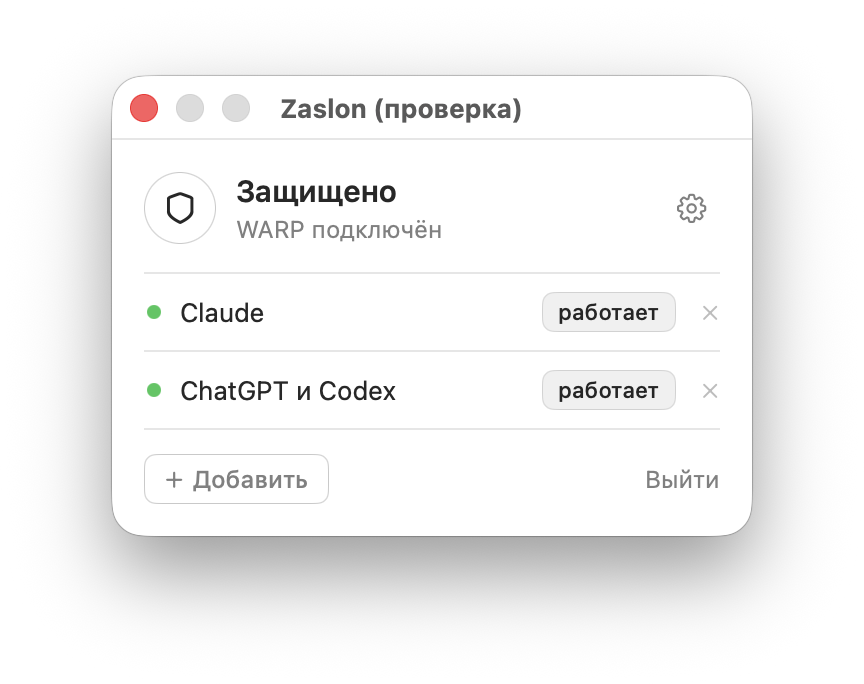
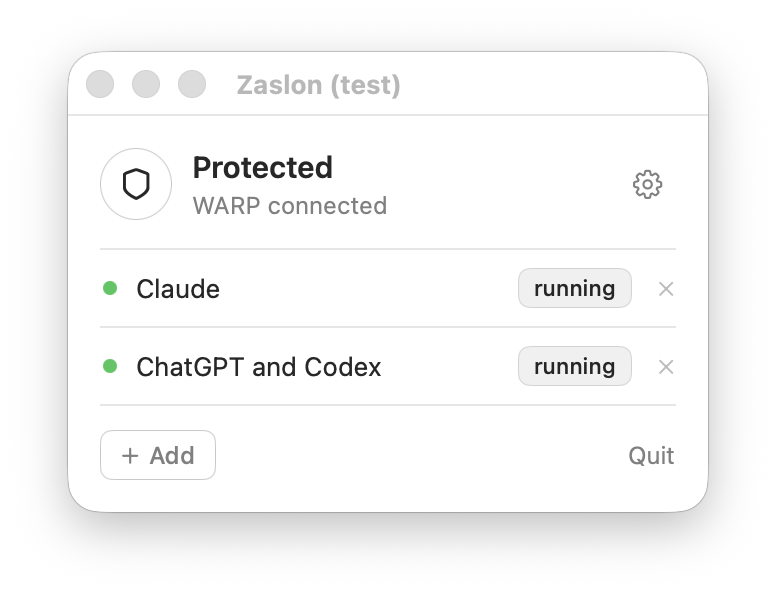
Add English and Russian, statuses from real connections, gear settings
- Language: English or Russian, chosen in the settings; starts from the system language.
- One status per app, read from its open connections: running, outside VPN, not working.
- The gate rule is written when ChatGPT or Claude is added and removed with the entry.
- Settings behind a gear; the switch is drawn by hand so it looks the same in both themes.
- README: English interface, every state pictured in the light and the dark theme.

Changed region(s): [[0.0928, 0.1208, 0.9278, 0.8758]]

diff --git a/Sources/Zaslon/App.swift b/Sources/Zaslon/App.swift
@@ -81,12 +81,15 @@ func relaunchSoon() {
     if bench { watchStalls() }
     let catalog = Catalog.shared
     catalog.refresh()
+    if let ui = ProcessInfo.processInfo.environment["UI"] { Lang.shared.code = ui } // UI=en|ru: the language of the test window, not saved
     let g = Guard(live: false)
     g.signal = { _, _ in }
     g.update(true)
-    let window = NSWindow(contentViewController: NSHostingController(rootView: Panel(g: g)))
+    let content = NSHostingController(rootView: Panel(g: g))
+    // For a picture the window must look the same on every run, so it never becomes the active one.
+    let window = ProcessInfo.processInfo.environment["SHOT"] != nil ? Still(contentViewController: content) : NSWindow(contentViewController: content)
     window.styleMask = [.titled, .closable]
-    window.title = "Zaslon (проверка)"
+    window.title = t("Zaslon (проверка)", "Zaslon (test)")
     window.setFrameTopLeftPoint(NSPoint(x: 60, y: (NSScreen.main?.visibleFrame.maxY ?? 800) - 60))
     window.orderFrontRegardless()
     func scrollView(in view: NSView) -> NSScrollView? { view as? NSScrollView ?? view.subviews.lazy.compactMap(scrollView).first }
@@ -116,7 +119,7 @@ func relaunchSoon() {
             after(2.6) { withAnimation(.snappy(duration: 0.3)) { g.enabled = true } }
         }
         Chip.showHover = env["HOVER"] != nil
-        Gate.shared.look()
+        Gate.shared.ruled = Set(Gate.services.map(\.app)) // the test window shows the normal state, not this Mac's facts of the moment
         if mode == "--picker" {
             catalog.picking = true
             after(1.5) { scroll(400) }
@@ -211,17 +214,17 @@ func watchStalls() {
 
 final class Delegate: NSObject, NSApplicationDelegate {
     func applicationDidFinishLaunching(_: Notification) {
-        Catalog.shared.keepAutostart() // also warms the app list and icons, so the first "Добавить" is instant
+        Catalog.shared.keepAutostart() // also warms the app list and icons, so the first "Add" is instant
         TunnelProxy.shared.start()
         Gate.shared.start()
         Gate.shared.watch()
         guard !UserDefaults.standard.bool(forKey: "askedLogin") else { return }
         UserDefaults.standard.set(true, forKey: "askedLogin")
         let a = NSAlert()
-        a.messageText = "Запускать Zaslon при входе в систему?"
-        a.informativeText = "Без автозапуска защита не работает, пока вы не откроете программу сами. Поменять можно в окне программы."
-        a.addButton(withTitle: "Запускать")
-        a.addButton(withTitle: "Не сейчас")
+        a.messageText = t("Запускать Zaslon при входе в систему?", "Start Zaslon at login?")
+        a.informativeText = t("Без автозапуска защита не работает, пока вы не откроете программу сами. Поменять можно в окне программы.", "Without autostart the protection does not work until you open the app yourself. You can change this in the app's window.")
+        a.addButton(withTitle: t("Запускать", "Start at login"))
+        a.addButton(withTitle: t("Не сейчас", "Not now"))
         NSApp.activate(ignoringOtherApps: true)
         if a.runModal() == .alertFirstButtonReturn { Catalog.shared.setLogin(true) }
     }
@@ -538,6 +541,41 @@ struct SoftTrack: NSViewRepresentable {
 
 let corner: CGFloat = 6 // one rounding for every button and row
 
+/// The system's small switch, drawn by hand. The system one turns grey whenever its window is not the active one,
+/// so it looked switched off in pictures and differed between themes.
+struct Switch: ToggleStyle {
+    func makeBody(configuration: Configuration) -> some View {
+        Capsule().fill(configuration.isOn ? Color.green : Color.primary.opacity(0.18))
+            .frame(width: 32, height: 18)
+            .overlay(alignment: configuration.isOn ? .trailing : .leading) {
+                Circle().fill(.white).shadow(color: .black.opacity(0.25), radius: 1, y: 0.5).padding(2)
+            }
+            .animation(.snappy(duration: 0.18), value: configuration.isOn)
+            .contentShape(Capsule())
+            .onTapGesture { configuration.isOn.toggle() }
+    }
+}
+
+/// A window that never becomes active: pictures of it come out the same whatever else is on screen.
+final class Still: NSWindow {
+    override var canBecomeKey: Bool { false }
+    override var canBecomeMain: Bool { false }
+}
+
+/// The interface language: Russian or English. Every string is written in place, as `t("русский", "English")`.
+final class Lang: ObservableObject {
+    static let shared = Lang()
+    /// Starts from the system language; a choice made in the settings is remembered.
+    @Published var code = UserDefaults.standard.string(forKey: "language") ?? (Locale.preferredLanguages.first?.hasPrefix("ru") == true ? "ru" : "en")
+
+    func choose(_ code: String) {
+        self.code = code
+        UserDefaults.standard.set(code, forKey: "language")
+    }
+}
+
+func t(_ ru: String, _ en: String) -> String { Lang.shared.code == "ru" ? ru : en }
+
 /// The shared look of a button or row: a rounded box that fills in under the mouse.
 struct Chip: ViewModifier {
     static var showHover = false // HOVER=1 in the test window, to take a picture of the hover look
@@ -624,11 +662,12 @@ struct ShieldButton: View {
 
 struct QuitButton: View {
     let action: () -> Void
+    @ObservedObject private var lang = Lang.shared
     @State private var hover = false
 
     var body: some View {
         Button(action: action) {
-            Text("Выйти").foregroundStyle(hover ? Color.red : .secondary).padding(.vertical, 5).contentShape(Rectangle())
+            Text(t("Выйти", "Quit")).foregroundStyle(hover ? Color.red : .secondary).padding(.vertical, 5).contentShape(Rectangle())
         }
         .buttonStyle(.plain).onHover { hover = $0 }
     }
@@ -655,6 +694,7 @@ struct Panel: View {
     @ObservedObject var g: Guard
     @ObservedObject var catalog: Catalog
     @ObservedObject var gate = Gate.shared
+    @ObservedObject var lang = Lang.shared // every string below is read again when the language changes
     @State private var settings = ProcessInfo.processInfo.environment["GEAR"] != nil // GEAR=1: open in the test window
     @FocusState private var searching: Bool
 
@@ -666,7 +706,7 @@ struct Panel: View {
     var body: some View {
         VStack(alignment: .leading, spacing: 0) {
             HStack(spacing: 10) {
-                ShieldButton(g: g).help(g.enabled ? "Выключить защиту" : "Включить защиту")
+                ShieldButton(g: g).help(g.enabled ? t("Выключить защиту", "Switch protection off") : t("Включить защиту", "Switch protection on"))
                 VStack(alignment: .leading, spacing: 2) {
                     Text(title).font(.system(size: 15, weight: .semibold)).contentTransition(.opacity)
                     HStack(spacing: 0) {
@@ -681,7 +721,7 @@ struct Panel: View {
                         .foregroundStyle(settings ? HierarchicalShapeStyle.primary : .secondary)
                         .frame(width: 28, height: 28).modifier(Chip())
                 }
-                .buttonStyle(.plain).help(settings ? "Скрыть настройки" : "Настройки")
+                .buttonStyle(.plain).help(settings ? t("Скрыть настройки", "Hide settings") : t("Настройки", "Settings"))
             }
             .padding(.bottom, 14)
             Divider()
@@ -699,20 +739,20 @@ struct Panel: View {
                         .frame(width: 7, height: 7).frame(width: 10)
                     Text(e.name).font(.system(size: 13))
                     Spacer()
-                    StatusPill(text: off ? "выключена" : unruled ? "не работает" : !up ? "не запущен" : g.freezing ? "на паузе" : past ? "мимо VPN" : "работает") {
+                    StatusPill(text: off ? t("выключена", "off") : unruled ? t("не работает", "not working") : !up ? t("не запущен", "not running") : g.freezing ? t("на паузе", "frozen") : past ? t("мимо VPN", "outside VPN") : t("работает", "running")) {
                         if let service, unruled, !off {
                             gate.setRules(true, app: service) // asks for the admin password
                         } else if let i = g.entries.firstIndex(where: { $0.id == e.id }) {
                             g.entries[i].off = !off
                         }
                     }
-                    .help(off ? "Включить защиту для этой программы" : unruled ? "Серверы этой программы ещё не закрыты воротами VPN. Нажмите и введите пароль администратора." : "Выключить защиту для этой программы")
+                    .help(off ? t("Включить защиту для этой программы", "Switch protection on for this app") : unruled ? t("Серверы этой программы ещё не закрыты воротами VPN. Нажмите и введите пароль администратора.", "This app's servers are not behind the VPN gate yet. Click and enter the admin password.") : t("Выключить защиту для этой программы", "Switch protection off for this app"))
                     RemoveButton {
                         let drop = { g.entries.removeAll { $0.id == e.id } }
                         // The gate's rule leaves with the entry; if the password is refused, both stay.
                         if let service, gate.ruled.contains(service) { gate.setRules(false, app: service) { if $0 { drop() } } } else { drop() }
                     }
-                    .help("Убрать из списка")
+                    .help(t("Убрать из списка", "Remove from the list"))
                 }
                 .padding(.vertical, 9)
                 Divider()
@@ -720,10 +760,27 @@ struct Panel: View {
             // Behind the gear: the settings.
             if settings {
                 HStack(spacing: 8) {
-                    Text("Запускать при входе").font(.system(size: 13))
+                    Text(t("Запускать при входе", "Launch at login")).font(.system(size: 13))
                     Spacer()
-                    Toggle("Запускать при входе", isOn: Binding(get: { catalog.login }, set: { catalog.setLogin($0) }))
-                        .labelsHidden().toggleStyle(.switch).controlSize(.small).tint(.green)
+                    Toggle(t("Запускать при входе", "Launch at login"), isOn: Binding(get: { catalog.login }, set: { catalog.setLogin($0) }))
+                        .labelsHidden().toggleStyle(Switch())
+                }
+                .padding(.vertical, 8)
+                Divider()
+                HStack(spacing: 8) {
+                    Text(t("Язык", "Language")).font(.system(size: 13))
+                    Spacer()
+                    // Two plain chips, not a system control: they look the same in both themes and in an inactive window.
+                    HStack(spacing: 4) {
+                        ForEach([("ru", "Русский"), ("en", "English")], id: \.0) { code, name in
+                            Button { lang.choose(code) } label: {
+                                Text(name).font(.system(size: 11, weight: .medium)).padding(.horizontal, 8).padding(.vertical, 3)
+                                    .foregroundStyle(lang.code == code ? HierarchicalShapeStyle.primary : .tertiary)
+                                    .modifier(Chip(rest: lang.code == code ? 0.1 : 0, outline: lang.code == code ? 0.2 : 0.1))
+                            }
+                            .buttonStyle(.plain)
+                        }
+                    }
                 }
                 .padding(.vertical, 8)
                 Divider()
@@ -737,7 +794,7 @@ struct Panel: View {
             VStack(spacing: 0) {
                 HStack(spacing: 6) {
                     Image(systemName: "magnifyingglass").font(.system(size: 11)).foregroundStyle(.secondary).frame(width: 10)
-                    TextField("Поиск программы", text: $catalog.query).textFieldStyle(.plain).font(.system(size: 13)).focused($searching)
+                    TextField(t("Поиск программы", "Search apps"), text: $catalog.query).textFieldStyle(.plain).font(.system(size: 13)).focused($searching)
                 }
                 .padding(.vertical, 9).padding(edge)
                 Divider().padding(edge)
@@ -763,7 +820,7 @@ struct Panel: View {
                 .frame(height: 232)
                 .overlay {
                     if shown.isEmpty {
-                        Text(catalog.apps.isEmpty ? "Загружаю список" : "Ничего не найдено").font(.system(size: 12)).foregroundStyle(.secondary)
+                        Text(catalog.apps.isEmpty ? t("Загружаю список", "Loading the list") : t("Ничего не найдено", "Nothing found")).font(.system(size: 12)).foregroundStyle(.secondary)
                     }
                 }
                 .padding(.vertical, 6)
@@ -781,7 +838,7 @@ struct Panel: View {
                 } label: {
                     HStack(spacing: 4) { // tighter than a Label, which leaves the text far from the icon
                         Image(systemName: catalog.picking ? "xmark" : "plus").font(.system(size: 10, weight: .medium))
-                        Text(catalog.picking ? "Отмена" : "Добавить")
+                        Text(catalog.picking ? t("Отмена", "Cancel") : t("Добавить", "Add"))
                     }
                     .font(.system(size: 12, weight: .medium))
                     .fixedSize().padding(.horizontal, 10).padding(.vertical, 5)
@@ -801,19 +858,19 @@ struct Panel: View {
     }
 
     var title: String {
-        if !g.enabled { return "Защита на паузе" }
+        if !g.enabled { return t("Защита на паузе", "Protection paused") }
         switch g.protected {
-        case nil: return "Проверяю"
-        case true?: return "Защищено"
-        case false?: return "Заморожено"
+        case nil: return t("Проверяю", "Checking")
+        case true?: return t("Защищено", "Protected")
+        case false?: return t("Заморожено", "Frozen")
         }
     }
 
     var subtitle: String {
         switch g.protected {
-        case nil: return "Спрашиваю WARP"
-        case true?: return "WARP подключён"
-        case false?: return g.freezing ? "WARP отключён, " : "WARP отключён, программы работают"
+        case nil: return t("Спрашиваю WARP", "Asking WARP")
+        case true?: return t("WARP подключён", "WARP connected")
+        case false?: return g.freezing ? t("WARP отключён, ", "WARP disconnected, ") : t("WARP отключён, программы работают", "WARP disconnected, apps are running")
         }
     }
 

diff --git a/Sources/Zaslon/Guard.swift b/Sources/Zaslon/Guard.swift
@@ -20,7 +20,7 @@ struct Entry: Codable, Identifiable, Equatable {
 
     static let defaults = [
         Entry(name: "Claude", matches: ["/Applications/Claude.app", "claude"]),
-        Entry(name: "ChatGPT и Codex", matches: ["/Applications/ChatGPT.app", "codex"]),
+        Entry(name: t("ChatGPT и Codex", "ChatGPT and Codex"), matches: ["/Applications/ChatGPT.app", "codex"]),
     ]
 }
 
@@ -440,9 +440,16 @@ func cover(matches: [String]) {
     let pids = tree(of: Entry(name: "", matches: matches), in: procs)
     for proc in procs where pids.contains(proc.pid) { print(proc.pid, "parent", proc.ppid, proc.path.isEmpty ? "(file gone) " + proc.origin : proc.path) }
     print("\(pids.count) processes")
-    let (links, inside) = (pids.flatMap { connections($0) }, tunnelAddresses())
-    var count: [String: Int] = [:]
-    for link in links { count[(outside(local: link.local, remote: link.remote, tunnel: inside) ? "OUTSIDE the VPN  " : "") + link.local + " -> " + link.remote, default: 0] += 1 }
+    let inside = tunnelAddresses()
+    var (links, count) = (0, [String: Int]())
+    for proc in procs where pids.contains(proc.pid) {
+        for link in connections(proc.pid) {
+            links += 1
+            // An outside connection is named with its process: that is the one to look at.
+            let out = link.local != "0.0.0.0" && link.local != "::" && outside(local: link.local, remote: link.remote, tunnel: inside)
+            count[(out ? "OUTSIDE the VPN  " : "") + link.local + " -> " + link.remote + (out ? "  [\(proc.pid) \((proc.path as NSString).lastPathComponent)]" : ""), default: 0] += 1
+        }
+    }
     for (line, n) in count.sorted(by: { $0.value > $1.value }) { print(String(format: "%4d  ", n) + line) }
-    print("\(links.count) connections, tunnel addresses: \(inside.sorted().joined(separator: ", "))")
+    print("\(links) connections, tunnel addresses: \(inside.sorted().joined(separator: ", "))")
 }

diff --git a/Sources/Zaslon/Gate.swift b/Sources/Zaslon/Gate.swift
@@ -170,7 +170,7 @@ final class Gate: ObservableObject {
         let quoted = shell.replacingOccurrences(of: "\\", with: "\\\\").replacingOccurrences(of: "\"", with: "\\\"")
         let ask = Process()
         ask.executableURL = URL(fileURLWithPath: "/usr/bin/osascript")
-        ask.arguments = ["-e", "do shell script \"\(quoted)\"" + (admin ? " with prompt \"Zaslon меняет правило DNS для ворот VPN.\" with administrator privileges" : "")]
+        ask.arguments = ["-e", "do shell script \"\(quoted)\"" + (admin ? " with prompt \"\(t("Zaslon меняет правило DNS для ворот VPN.", "Zaslon is changing the DNS rule of the VPN gate."))\" with administrator privileges" : "")]
         ask.terminationHandler = { _ in then() }
         try? ask.run()
         return ask
@@ -304,7 +304,9 @@ func connections(_ pid: pid_t) -> [(local: String, remote: String)] {
         var text = [CChar](repeating: 0, count: Int(INET6_ADDRSTRLEN))
         func name(_ address: UnsafeMutableRawPointer, _ v4: Bool) -> String {
             inet_ntop(v4 ? AF_INET : AF_INET6, v4 ? address + 12 : address, &text, socklen_t(text.count)) // IPv4 sits in the last 4 of the 16 bytes
-            return String(cString: text)
+            // An IPv4 connection on an IPv6 socket reads as "::1.2.3.4" or "::ffff:1.2.3.4": keep the IPv4 part.
+            let read = String(cString: text)
+            return read.contains(".") ? String(read.split(separator: ":").last ?? "") : read
         }
         let v4 = ends.insi_vflag & UInt8(INI_IPV4) != 0
         let local = withUnsafeMutablePointer(to: &ends.insi_laddr) { name(UnsafeMutableRawPointer($0), v4) }

diff --git a/README.md b/README.md
@@ -12,7 +12,7 @@ If the VPN is not there, ChatGPT and Claude cannot reach their servers at all, a
 
 *Zaslon* (заслон) is Russian for "barrier". It is a small menu bar app, written in Swift and SwiftUI, with no dependencies. It was built for a setup where the VPN must always be on and nothing an AI app sends may leave the Mac outside of it.
 
-> Zaslon works with **Cloudflare WARP** only. The interface is in **Russian**; this page translates every label.
+> Zaslon works with **Cloudflare WARP** only. The interface comes in English and Russian.
 
 ## What it does
 
@@ -91,41 +91,44 @@ Not every program obeys proxy settings. In the tests, the ChatGPT app's computer
 
 ## The window
 
-<p align="center">
-  <img src="docs/frozen-dark.png" width="380" alt="The VPN is down: apps are frozen">
-  <img src="docs/paused-light.png" width="380" alt="Protection switched off">
-</p>
-<p align="center">
-  <img src="docs/picker-dark.png" width="380" alt="Adding an app">
-  <img src="docs/settings-light.png" width="380" alt="Settings">
-</p>
+Every state, in the light and the dark theme.
 
-| On screen | Meaning |
+| | Light | Dark |
+|---|---|---|
+| **Protected** | <img src="docs/main-light.png" width="330" alt="Protected, light"> | <img src="docs/main-dark.png" width="330" alt="Protected, dark"> |
+| **The VPN is down** | <img src="docs/frozen-light.png" width="330" alt="Frozen, light"> | <img src="docs/frozen-dark.png" width="330" alt="Frozen, dark"> |
+| **Protection switched off** | <img src="docs/paused-light.png" width="330" alt="Paused, light"> | <img src="docs/paused-dark.png" width="330" alt="Paused, dark"> |
+| **Settings** | <img src="docs/settings-light.png" width="330" alt="Settings, light"> | <img src="docs/settings-dark.png" width="330" alt="Settings, dark"> |
+| **Adding an app** | <img src="docs/picker-light.png" width="330" alt="Adding an app, light"> | <img src="docs/picker-dark.png" width="330" alt="Adding an app, dark"> |
+
+The header says what is going on:
+
+| Header | Meaning |
 |---|---|
-| **Защищено** · WARP подключён | Protected. WARP is connected. |
-| **Заморожено** · WARP отключён | Frozen. WARP is down; the timer shows for how long. |
-| **Защита на паузе** | You switched protection off with the shield button. |
-| **Проверяю** | Asking WARP. The list is frozen until it answers. |
+| **Protected** · WARP connected | All is well. |
+| **Frozen** · WARP disconnected | The VPN is down and the apps are stopped; the timer shows for how long. |
+| **Protection paused** | You switched protection off with the shield button. |
+| **Checking** | Asking WARP. The list stays frozen until it answers. |
 
 Each app has one status. It is a measured fact, not a guess from settings: every three seconds Zaslon reads the app's open connections from the kernel.
 
 | Dot | Status | Meaning |
 |---|---|---|
-| green | **работает** | Running. Every connection goes through the VPN. |
-| yellow | **мимо VPN** | ChatGPT or Claude holds a connection to the internet that does not start from the tunnel. |
-| yellow | **на паузе** | Frozen: the VPN is down. |
-| red | **не работает** | ChatGPT or Claude has no gate rule yet. Click the status and enter the admin password. |
-| red | **выключена** | You switched protection off for this app. Click to switch it back on. |
-| hollow | **не запущен** | The app is not running. |
+| green | **running** | Every connection goes through the VPN. |
+| yellow | **outside VPN** | ChatGPT or Claude holds a connection to the internet that does not start from the tunnel. |
+| yellow | **frozen** | Stopped: the VPN is down. |
+| red | **not working** | ChatGPT or Claude has no gate rule yet. Click the status and enter the admin password. |
+| red | **off** | You switched protection off for this app. Click to switch it back on. |
+| hollow | **not running** | The app is not open. |
 
 Controls:
 
 - **Shield button**: switches all protection on and off.
 - **Status button**: switches protection for that one app.
 - **×**: removes the app from the list. For ChatGPT and Claude this also removes the gate rule and asks for the password again.
-- **+ Добавить**: add an app from a searchable list of everything installed. Adding ChatGPT or Claude asks for the admin password; if you refuse, the app is not added.
-- **Gear**: settings. **Запускать при входе** = launch at login.
-- **Выйти**: quit.
+- **+ Add**: add an app from a searchable list of everything installed. Adding ChatGPT or Claude asks for the admin password; if you refuse, the app is not added.
+- **Gear**: settings. **Launch at login**, and **Language**: English or Russian. Zaslon starts in the system's language.
+- **Quit**.
 
 ## Requirements
 
@@ -172,7 +175,7 @@ Everything runs from the binary inside the bundle, `build/Zaslon.app/Contents/Ma
 | `--drill <seconds> <app or name…>` | A fire drill without touching the VPN: freezes the given programs through the real code path, then thaws them. |
 | `--gate <port> <dns port> [interface]` | Runs only the gate on spare ports. |
 | `--proxy <port> [interface]` | Runs only the tunnel proxy. |
-| `--window`, `--picker` | Shows the panel in a normal window. With `SHOT=<file.png>` it saves a picture and quits; `LOOK=light\|dark`, `DROP=1`, `OFF=1` and `GEAR=1` choose the state. |
+| `--window`, `--picker` | Shows the panel in a normal window. With `SHOT=<file.png>` it saves a picture and quits; `LOOK=light\|dark`, `UI=en\|ru`, `DROP=1`, `OFF=1` and `GEAR=1` choose the state. |
 
 ## What was measured
 
@@ -190,7 +193,6 @@ Everything runs from the binary inside the bundle, `build/Zaslon.app/Contents/Ma
 - The freeze has a window of up to 50 ms, and the kernel keeps receiving on open connections.
 - The gate knows two services, at fixed paths: `/Applications/ChatGPT.app` and `/Applications/Claude.app`. The list is in `Gate.swift`.
 - One address per name, IPv4 only. The DNS answerer gives no IPv6 answer, so programs use IPv4.
-- The interface is in Russian.
 - A real per-app firewall is out of reach without a Network Extension.
 
 ## Source
